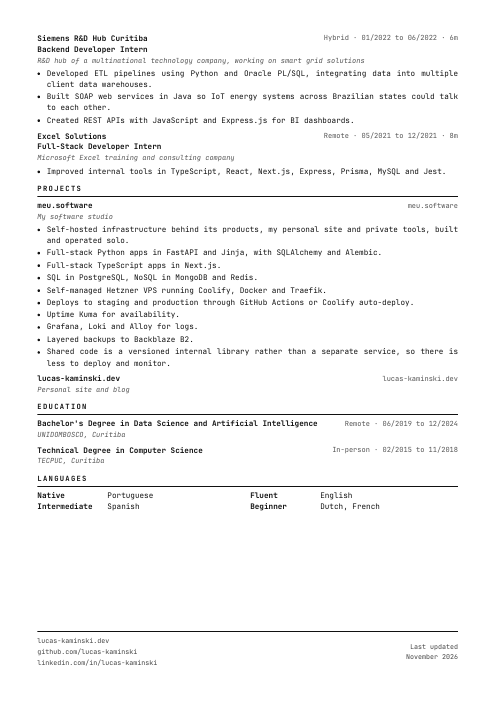
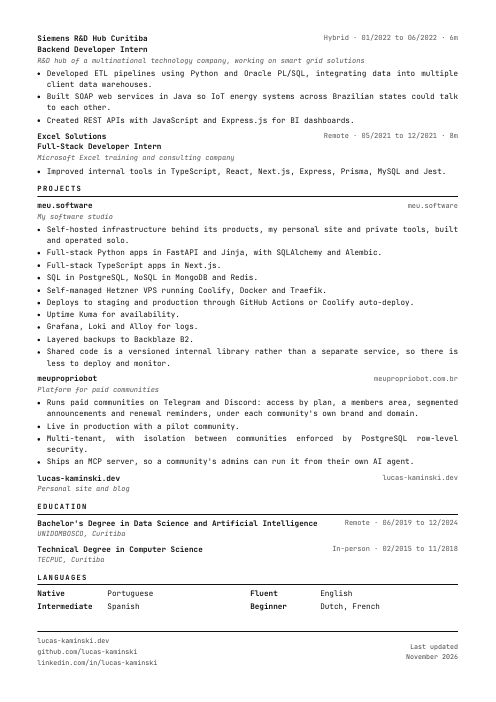
feat: meupropriobot nos projects

diff --git a/cv.html b/cv.html
@@ -168,6 +168,17 @@ building AI features in production, such as Bento's support chat.</p>
 </div>
 
 <div class="entry">
+  <div class="entry-head"><b><a href="https://meupropriobot.com.br">meupropriobot</a></b><span><a href="https://meupropriobot.com.br">meupropriobot.com.br</a></span></div>
+  <div class="blurb">Platform for paid communities</div>
+  <ul>
+    <li>Runs paid communities on Telegram and Discord: access by plan, a members area, segmented announcements and renewal reminders, under each community's own brand and domain.</li>
+    <li>Live in production with a pilot community.</li>
+    <li>Multi-tenant, with isolation between communities enforced by PostgreSQL row-level security.</li>
+    <li>Ships an MCP server, so a community's admins can run it from their own AI agent.</li>
+  </ul>
+</div>
+
+<div class="entry">
   <div class="entry-head"><b><a href="https://lucas-kaminski.dev">lucas-kaminski.dev</a></b><span><a href="https://lucas-kaminski.dev">lucas-kaminski.dev</a></span></div>
   <div class="blurb">Personal site and blog</div>
 </div>
